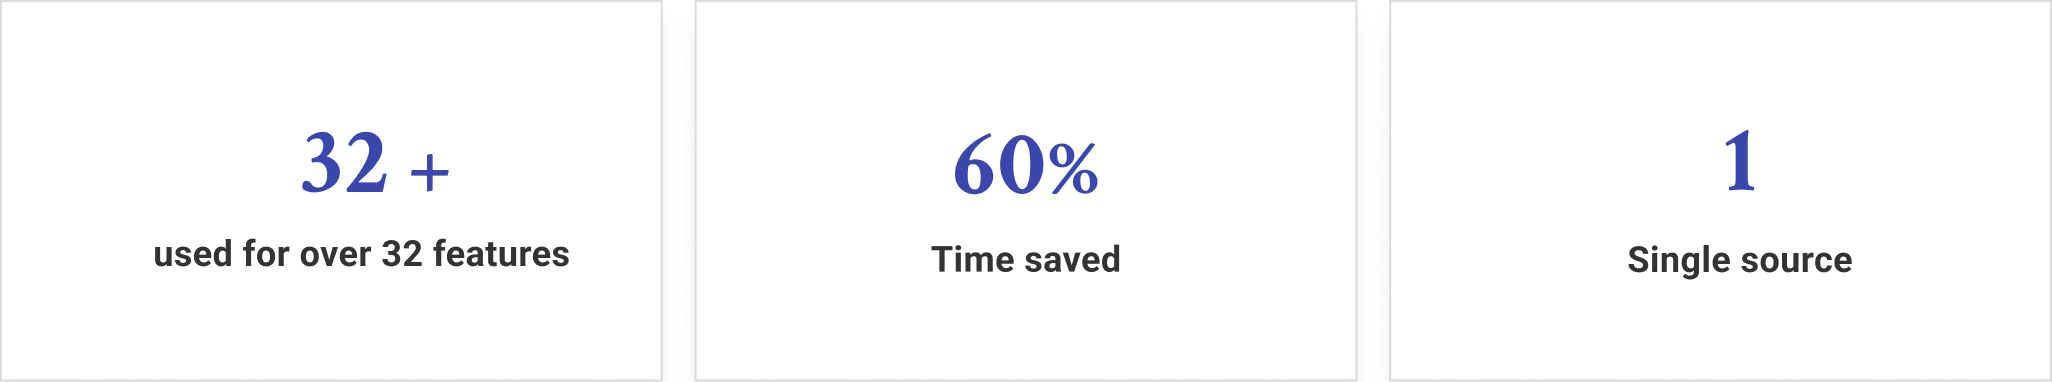
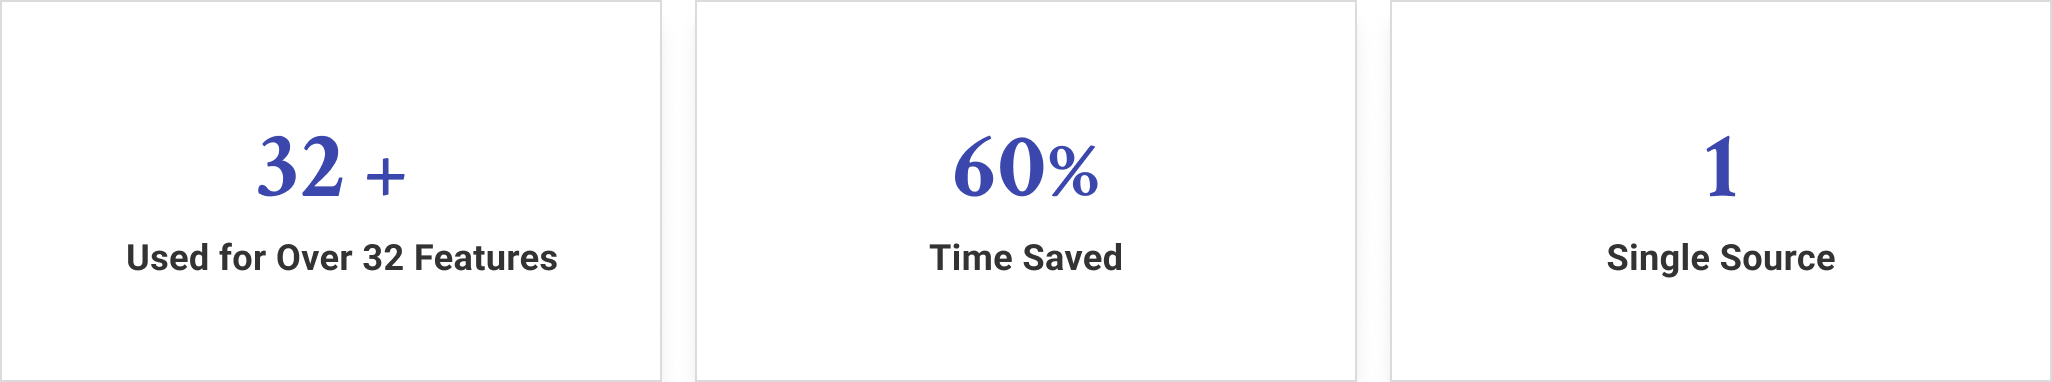
adjust the spacing of the mobile view

diff --git a/portfolio_designsystem_v3.html b/portfolio_designsystem_v3.html
@@ -161,18 +161,14 @@
             <section id="process">
                 <h2 id="roadmap">Project Roadmap & Library Architecture</h2>
                 <h3>Design Process</h3>
-                <div class="col-6">
-                    <img src="img/portfolios/design_system/3.webp" alt="data">
-                </div>
-                <div class="col-6">
-                    <p>Before onboarding other designers to the project, I audited the existing MVP design files and
-                        listed the necessary components to include in the new library. To ensure the system was ready
-                        for Phase 2, I limited the scope to a solid, highly achievable component set that could be
-                        delivered before the kickoff date. This structured workflow relied heavily on continuous
-                        collaboration and iterative feedback loops at every stage.</p>
-                    <p>Crucially, the evaluation phase included a dedicated engineering review. This allowed us to align
-                        our design system guidelines directly with developer constraints and technical requirements
-                        before finalizing the version.</p>
+                <div class="row">
+                    <div class="col-6">
+                        <img src="img/portfolios/design_system/3.webp" alt="data">
+                    </div>
+                    <div class="col-6">
+                        <p style="margin-top:-12px;">Before onboarding other designers, I audited the MVP design files to list necessary components for the new library. To ensure readiness for Phase 2, I limited the scope to a solid, highly achievable component set deliverable before kickoff.</p>
+                        <p>Crucially, the process integrated continuous collaboration and a dedicated engineering review. This allowed us to align our design system guidelines directly with developer constraints and technical requirements before finalizing the version.</p>
+                    </div>
                 </div>
                 <h3>Timeline</h3>
                 <p>We started the project once the MVP design was completed. The goal was to finish before the Phase 2
@@ -291,7 +287,7 @@
                 <p>We created comprehensive guidelines to standardize layout grids, spacing rules, and component
                     behaviors.
                     These specifications ensure design and development consistency across the entire product</p>
-                <img src="img/portfolios/design_system/14.webp" alt="input field">
+                <img src="img/portfolios/design_system/14.png" alt="input field">
 
             </section>
         </div> <!-- wrapper end -->
@@ -322,7 +318,7 @@
     <div class="go-top">
         <i class="bg-top fa fa-regular fa-chevron-up"></i>
     </div>
-    <div class="arrow_row space-5tb">
+    <!-- <div class="arrow_row space-5tb">
         <div class="col-4">
             <a href="portfolio_ai_design_system.html"><i class="fa fa-chevron-left" aria-hidden="true"></i></a>
         </div>
@@ -330,7 +326,7 @@
         <div class="col-4">
             <a href="portfolio_visual_websites.html"><i class="fa fa-chevron-right" aria-hidden="true"></i></a>
         </div>
-    </div>
+    </div> -->
 
 
     <footer>

diff --git a/css/style.css b/css/style.css
@@ -145,8 +145,6 @@ width: 100%;}
     margin-top:0;
   }
 
-  .space-m
-
   .space-5t{
     margin-top:5%;
   }
@@ -204,7 +202,7 @@ width: 100%;}
  .with-bg-spacing{
     width:80%; 
     margin:0 auto;
-    padding:10% 0;
+    padding: 8% 0 15% 0;
  }
 
  .comp-video-area{
@@ -218,11 +216,6 @@ width: 100%;}
     overflow: hidden;
     transform: translateZ(0); /* Fixes video corner clipping in Safari */
  }
-
-
- 
-
-
 
 /* loading */
 /* This only works with JavaScript, 
@@ -1211,9 +1204,9 @@ img.bgshadow{
     }
 
     /***** WORK *****/
-    .wrapper-work {
+    /* .wrapper-work {
         padding-top: 6.5%;
-    }
+    } */
 
     img.logo{
         width: 48px;
@@ -1240,7 +1233,7 @@ img.bgshadow{
         width:100%;
     }
     
-    section{
+    section, .with-bg-spacing{
         width:100%;
     }
 